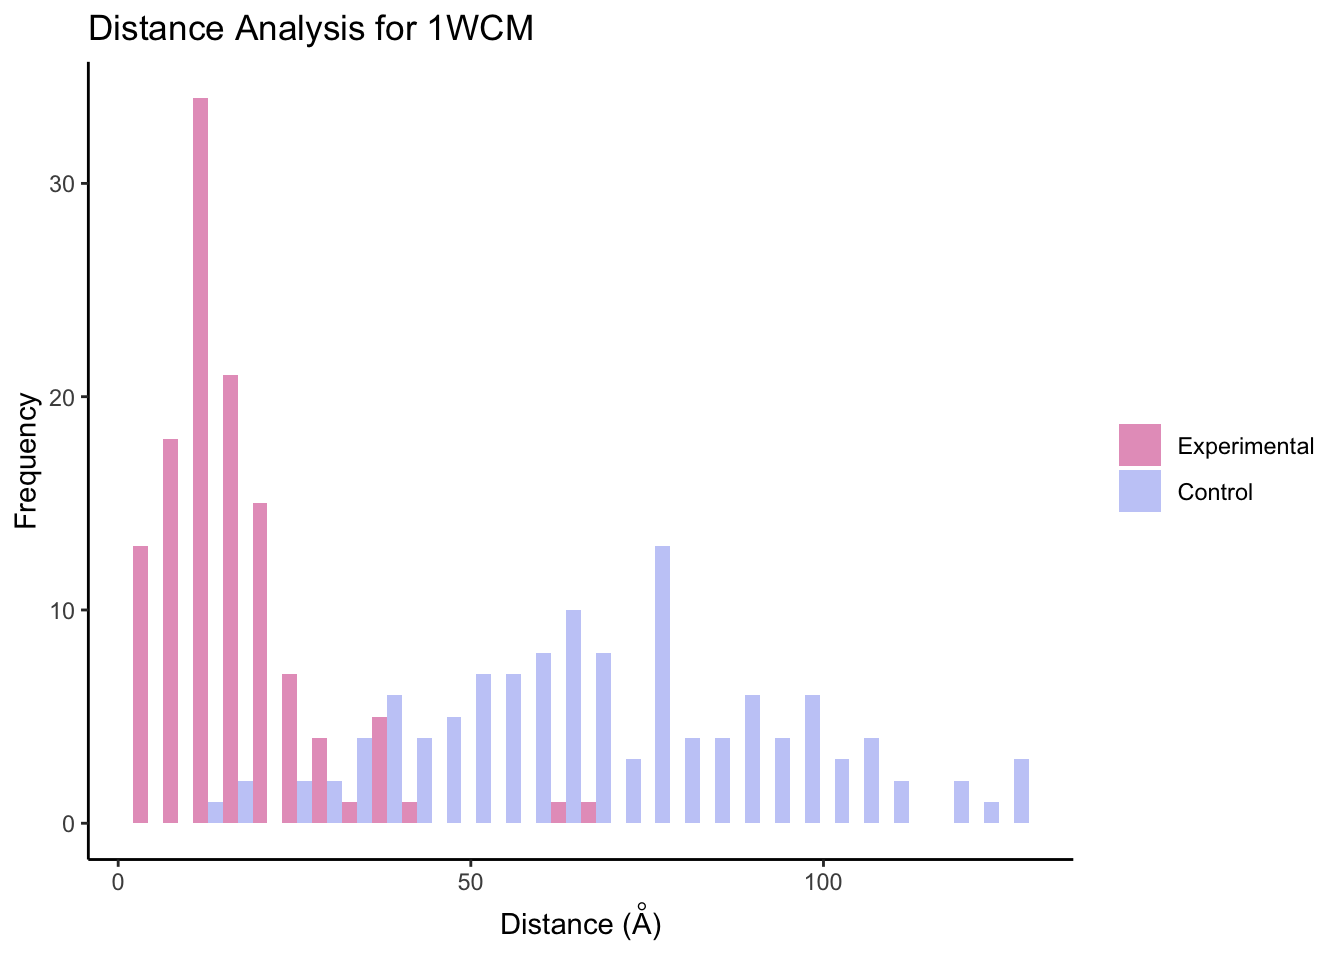
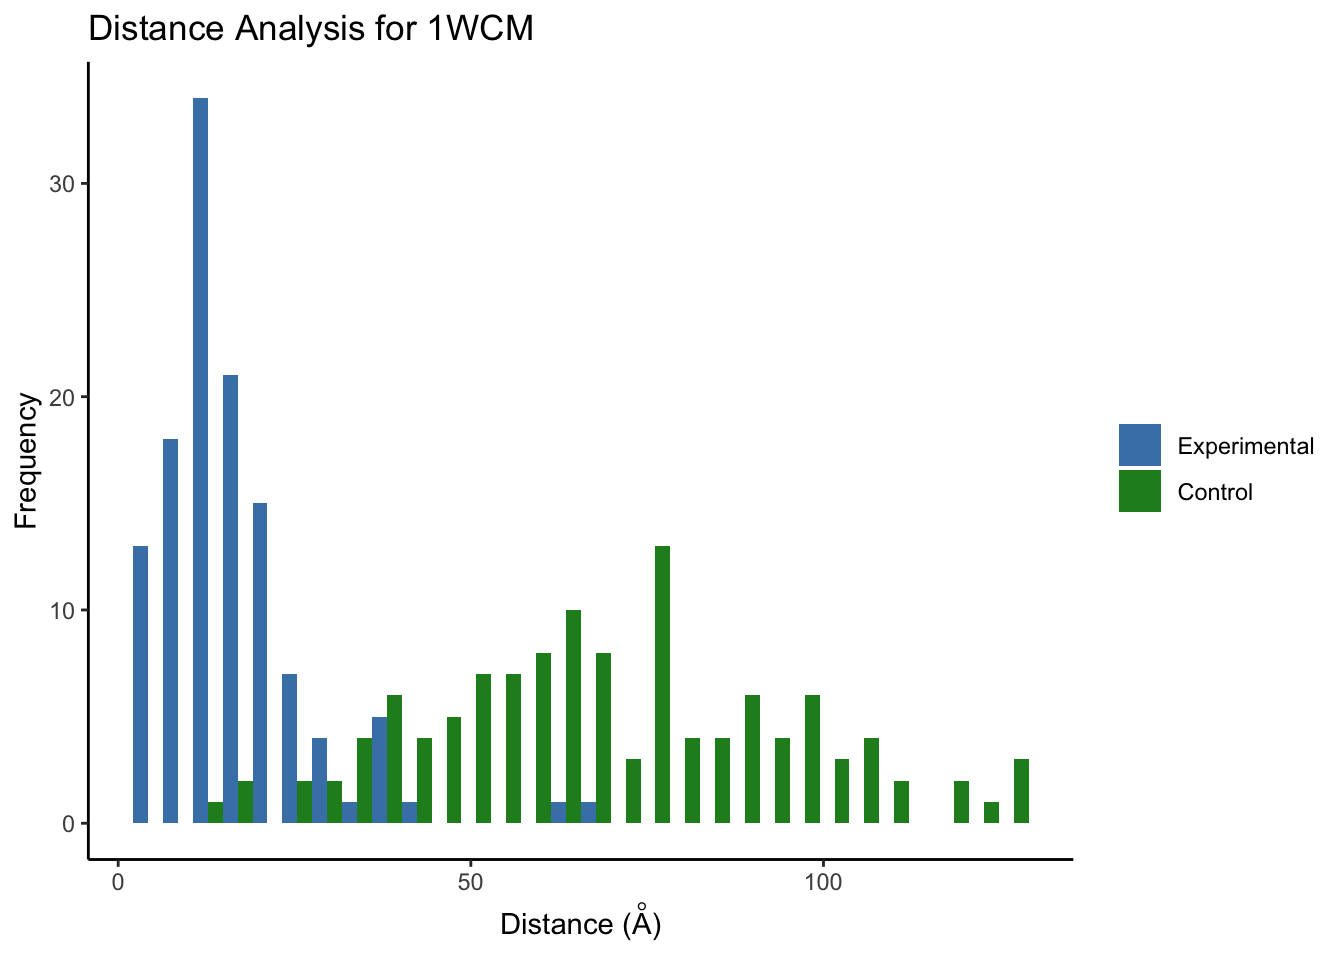
Updated yeast tutorial

Changed region(s): [[0.0938, 0.0938, 0.7812, 0.875], [0.8125, 0.4375, 0.875, 0.5312]]

diff --git a/crisscrosslinker/yeast_ppi_workflow.html b/crisscrosslinker/yeast_ppi_workflow.html
@@ -12,19 +12,19 @@
 
 <meta name="author" content="Emma Gail" />
 
-<meta name="date" content="2019-09-10" />
+<meta name="date" content="2019-09-13" />
 
 <title>Benchmarking: Protein-protein interactions of RNA polymerase II–TFIIF complex (Chen et. al 2009)</title>
 
-<script src="libs/jquery/jquery.min.js"></script>
+<script src="libs/jquery-1.11.3/jquery.min.js"></script>
 <meta name="viewport" content="width=device-width, initial-scale=1" />
-<link href="libs/bootstrap/css/bootstrap.min.css" rel="stylesheet" />
-<script src="libs/bootstrap/js/bootstrap.min.js"></script>
-<script src="libs/bootstrap/shim/html5shiv.min.js"></script>
-<script src="libs/bootstrap/shim/respond.min.js"></script>
-<script src="libs/navigation/tabsets.js"></script>
-<link href="libs/highlightjs/default.css" rel="stylesheet" />
-<script src="libs/highlightjs/highlight.js"></script>
+<link href="libs/bootstrap-3.3.5/css/bootstrap.min.css" rel="stylesheet" />
+<script src="libs/bootstrap-3.3.5/js/bootstrap.min.js"></script>
+<script src="libs/bootstrap-3.3.5/shim/html5shiv.min.js"></script>
+<script src="libs/bootstrap-3.3.5/shim/respond.min.js"></script>
+<script src="libs/navigation-1.1/tabsets.js"></script>
+<link href="libs/highlightjs-9.12.0/default.css" rel="stylesheet" />
+<script src="libs/highlightjs-9.12.0/highlight.js"></script>
 
 <style type="text/css">code{white-space: pre;}</style>
 <style type="text/css">
@@ -180,7 +180,7 @@ summary {
 
 <h1 class="title toc-ignore">Benchmarking: Protein-protein interactions of RNA polymerase II–TFIIF complex (Chen et. al 2009)</h1>
 <h4 class="author">Emma Gail</h4>
-<h4 class="date">2019-09-10</h4>
+<h4 class="date">2019-09-13</h4>
 
 </div>
 
@@ -204,20 +204,10 @@ install_github(&#39;egmg726/crisscrosslinker&#39;)</code></pre>
 <div id="load-libraries" class="section level1">
 <h1>Load Libraries</h1>
 <p>First, load the <code>crisscrosslinker</code> package into your R session.</p>
-<pre class="r"><code>library(XML)
-library(RCurl)
-library(ggplot2)
-library(bio3d)
+<pre class="r"><code>library(crisscrosslinker)
 library(Biostrings)
-library(seqinr)
-library(RColorBrewer)
-library(openxlsx)
-library(viridis)
-library(stringr)
-library(svglite)
-library(jsonlite)
-library(crisscrosslinker)
-library(httr)
+library(XML)
+library(ggplot2)
 library(reshape2)</code></pre>
 </div>
 <div id="download-data-from-pride-optional" class="section level1">
@@ -366,14 +356,14 @@ dist.hist.df.mega &lt;- ppi.distAnalysis(xlink.df.pdb = xlink.df.pdb, plot=FALSE
 <pre><code>##   Note: Accessing on-line PDB file
 ##   HEADER    TRANSCRIPTION                           17-NOV-04   1WCM</code></pre>
 <p><code>dist.hist.df.mega</code> is a <code>list</code> containing a <code>data.frame</code> for each PDB file that was matched to the sequences chosen.</p>
-<p>We can then use an outside color palette that we want to use for our histogram. In this case, we will test out a color palette from the <code>wesanderson</code> library.</p>
+<p>We can then use another color palette that we want to use for our histogram.</p>
 <p>Since we only have one PDB structure, 1WCM, we can just select it from the list to use.</p>
 <pre class="r"><code>library(wesanderson)
 
 ggplot(melt(dist.hist.df.mega[[&#39;1WCM&#39;]]), aes(value, fill = variable)) +
   geom_histogram(position = &quot;dodge&quot;) +
   labs(x=expression(paste(&#39;Distance (&#39;,ring(A),&#39;)&#39;)),y=&#39;Frequency&#39;,title=&#39;Distance Analysis for 1WCM&#39;) +
-  scale_fill_manual(values=wes_palette(n=2, name=&quot;GrandBudapest2&quot;)) +
+  scale_fill_manual(values=c(&quot;steelblue&quot;,&quot;forestgreen&quot;) )+
   theme_classic() + theme(legend.title = element_blank())</code></pre>
 <p><img src="yeast_ppi_workflow_files/figure-html/unnamed-chunk-11-1.png" width="672" /></p>
 <p>Note: the control distribution will look slightly different each time it is run due to the random sampling of the lysines unless <code>set.seed</code> is set before <code>ppi.distAnalysis</code>.</p>
@@ -430,31 +420,30 @@ head(xlink.df.pdb[c(&#39;freq_color&#39;,&#39;dist&#39;)])</code></pre>
 ##  version  R version 3.5.1 (2018-07-02)
 ##  os       macOS  10.14.3              
 ##  system   x86_64, darwin15.6.0        
-##  ui       RStudio                     
+##  ui       X11                         
 ##  language (EN)                        
 ##  collate  en_US.UTF-8                 
 ##  ctype    en_US.UTF-8                 
 ##  tz       Australia/Melbourne         
-##  date     2019-09-10                  
+##  date     2019-09-13                  
 ## 
 ## ─ Packages ──────────────────────────────────────────────────────────────
 ##  package          * version    date       lib
 ##  ade4               1.7-13     2018-08-31 [1]
 ##  assertthat         0.2.1      2019-03-21 [1]
 ##  backports          1.1.4      2019-04-10 [1]
-##  bio3d            * 2.3-4      2018-04-03 [1]
+##  bio3d              2.3-4      2018-04-03 [1]
 ##  BiocGenerics     * 0.28.0     2018-10-30 [1]
 ##  Biostrings       * 2.50.2     2019-01-03 [1]
-##  bitops           * 1.0-6      2013-08-17 [1]
+##  bitops             1.0-6      2013-08-17 [1]
 ##  callr              3.3.1      2019-07-18 [1]
 ##  cli                1.1.0      2019-03-19 [1]
-##  codetools          0.2-16     2018-12-24 [1]
 ##  colorspace         1.4-1      2019-03-18 [1]
 ##  crayon             1.3.4      2017-09-16 [1]
 ##  crisscrosslinker * 0.9        2019-09-03 [1]
-##  curl             * 4.0        2019-07-22 [1]
+##  curl               4.0        2019-07-22 [1]
 ##  desc               1.2.0      2018-05-01 [1]
-##  devtools         * 2.1.0      2019-07-06 [1]
+##  devtools           2.1.0      2019-07-06 [1]
 ##  digest             0.6.20     2019-07-04 [1]
 ##  dplyr              0.8.3      2019-07-04 [1]
 ##  evaluate           0.14       2019-05-28 [1]
@@ -464,11 +453,10 @@ head(xlink.df.pdb[c(&#39;freq_color&#39;,&#39;dist&#39;)])</code></pre>
 ##  glue               1.3.1      2019-03-12 [1]
 ##  gridExtra          2.3        2017-09-09 [1]
 ##  gtable             0.3.0      2019-03-25 [1]
-##  highr              0.8        2019-03-20 [1]
 ##  htmltools          0.3.6      2017-04-28 [1]
-##  httr             * 1.4.1      2019-08-05 [1]
+##  httr               1.4.1      2019-08-05 [1]
 ##  IRanges          * 2.16.0     2018-10-30 [1]
-##  jsonlite         * 1.6        2018-12-07 [1]
+##  jsonlite           1.6        2018-12-07 [1]
 ##  knitr              1.24       2019-08-08 [1]
 ##  labeling           0.3        2014-08-23 [1]
 ##  lattice            0.20-38    2018-11-04 [1]
@@ -479,7 +467,7 @@ head(xlink.df.pdb[c(&#39;freq_color&#39;,&#39;dist&#39;)])</code></pre>
 ##  Matrix             1.2-17     2019-03-22 [1]
 ##  memoise            1.1.0      2017-04-21 [1]
 ##  munsell            0.5.0      2018-06-12 [1]
-##  openxlsx         * 4.1.0.1    2019-05-28 [1]
+##  openxlsx           4.1.0.1    2019-05-28 [1]
 ##  pillar             1.4.2      2019-06-29 [1]
 ##  pkgbuild           1.0.5      2019-08-26 [1]
 ##  pkgconfig          2.0.2      2018-08-16 [1]
@@ -491,30 +479,28 @@ head(xlink.df.pdb[c(&#39;freq_color&#39;,&#39;dist&#39;)])</code></pre>
 ##  ps                 1.3.0      2018-12-21 [1]
 ##  purrr              0.3.2      2019-03-15 [1]
 ##  R6                 2.4.0      2019-02-14 [1]
-##  RColorBrewer     * 1.1-2      2014-12-07 [1]
+##  RColorBrewer       1.1-2      2014-12-07 [1]
 ##  Rcpp               1.0.2      2019-07-25 [1]
-##  RCurl            * 1.95-4.12  2019-03-04 [1]
+##  RCurl              1.95-4.12  2019-03-04 [1]
 ##  remotes            2.1.0      2019-06-24 [1]
 ##  reshape2         * 1.4.3      2017-12-11 [1]
 ##  rlang              0.4.0      2019-06-25 [1]
 ##  rmarkdown          1.15       2019-08-21 [1]
 ##  rprojroot          1.3-2      2018-01-03 [1]
-##  rstudioapi         0.10       2019-03-19 [1]
 ##  S4Vectors        * 0.20.1     2018-11-09 [1]
 ##  scales             1.0.0      2018-08-09 [1]
-##  seqinr           * 3.4-5      2017-08-01 [1]
+##  seqinr             3.4-5      2017-08-01 [1]
 ##  sessioninfo        1.1.1      2018-11-05 [1]
 ##  stringi            1.4.3      2019-03-12 [1]
-##  stringr          * 1.4.0      2019-02-10 [1]
+##  stringr            1.4.0      2019-02-10 [1]
 ##  survival           2.44-1.1   2019-04-01 [1]
-##  svglite          * 1.2.2      2019-05-17 [1]
+##  svglite            1.2.2      2019-05-17 [1]
 ##  testthat           2.2.1      2019-07-25 [1]
 ##  tibble             2.1.3      2019-06-06 [1]
 ##  tidyselect         0.2.5      2018-10-11 [1]
-##  tufte            * 0.5        2019-05-12 [1]
-##  usethis          * 1.5.1      2019-07-04 [1]
-##  viridis          * 0.5.1      2018-03-29 [1]
-##  viridisLite      * 0.3.0      2018-02-01 [1]
+##  usethis            1.5.1      2019-07-04 [1]
+##  viridis            0.5.1      2018-03-29 [1]
+##  viridisLite        0.3.0      2018-02-01 [1]
 ##  wesanderson      * 0.3.6      2018-04-20 [1]
 ##  withr              2.1.2      2018-03-15 [1]
 ##  xfun               0.9        2019-08-21 [1]
@@ -535,7 +521,6 @@ head(xlink.df.pdb[c(&#39;freq_color&#39;,&#39;dist&#39;)])</code></pre>
 ##  CRAN (R 3.5.2)                           
 ##  CRAN (R 3.5.2)                           
 ##  CRAN (R 3.5.2)                           
-##  CRAN (R 3.5.2)                           
 ##  CRAN (R 3.5.0)                           
 ##  Github (egmg726/crisscrosslinker@2238988)
 ##  CRAN (R 3.5.2)                           
@@ -550,7 +535,6 @@ head(xlink.df.pdb[c(&#39;freq_color&#39;,&#39;dist&#39;)])</code></pre>
 ##  CRAN (R 3.5.2)                           
 ##  CRAN (R 3.5.0)                           
 ##  CRAN (R 3.5.2)                           
-##  CRAN (R 3.5.2)                           
 ##  CRAN (R 3.5.0)                           
 ##  CRAN (R 3.5.2)                           
 ##  Bioconductor                             
@@ -585,7 +569,6 @@ head(xlink.df.pdb[c(&#39;freq_color&#39;,&#39;dist&#39;)])</code></pre>
 ##  CRAN (R 3.5.2)                           
 ##  CRAN (R 3.5.2)                           
 ##  CRAN (R 3.5.0)                           
-##  CRAN (R 3.5.2)                           
 ##  Bioconductor                             
 ##  CRAN (R 3.5.0)                           
 ##  CRAN (R 3.5.0)                           
@@ -597,7 +580,6 @@ head(xlink.df.pdb[c(&#39;freq_color&#39;,&#39;dist&#39;)])</code></pre>
 ##  CRAN (R 3.5.2)                           
 ##  CRAN (R 3.5.2)                           
 ##  CRAN (R 3.5.0)                           
-##  CRAN (R 3.5.2)                           
 ##  CRAN (R 3.5.2)                           
 ##  CRAN (R 3.5.0)                           
 ##  CRAN (R 3.5.0)                           
